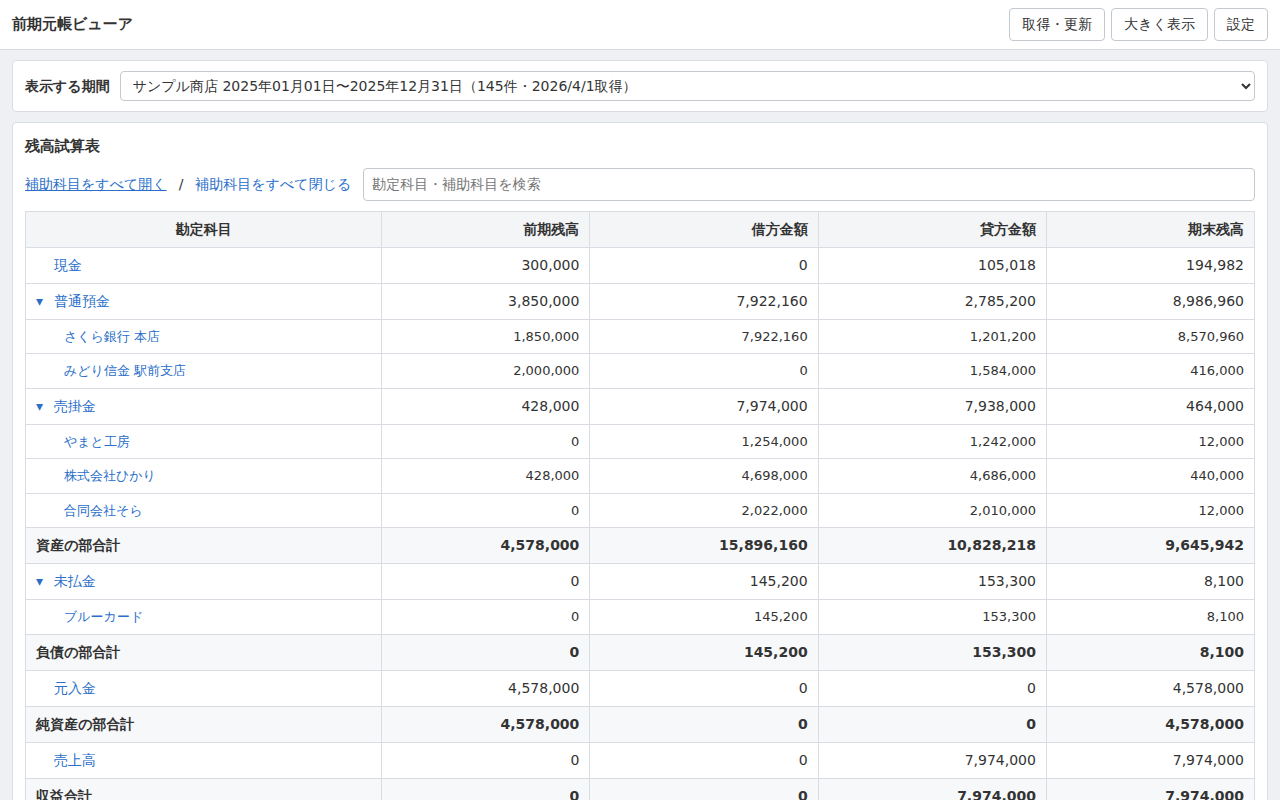
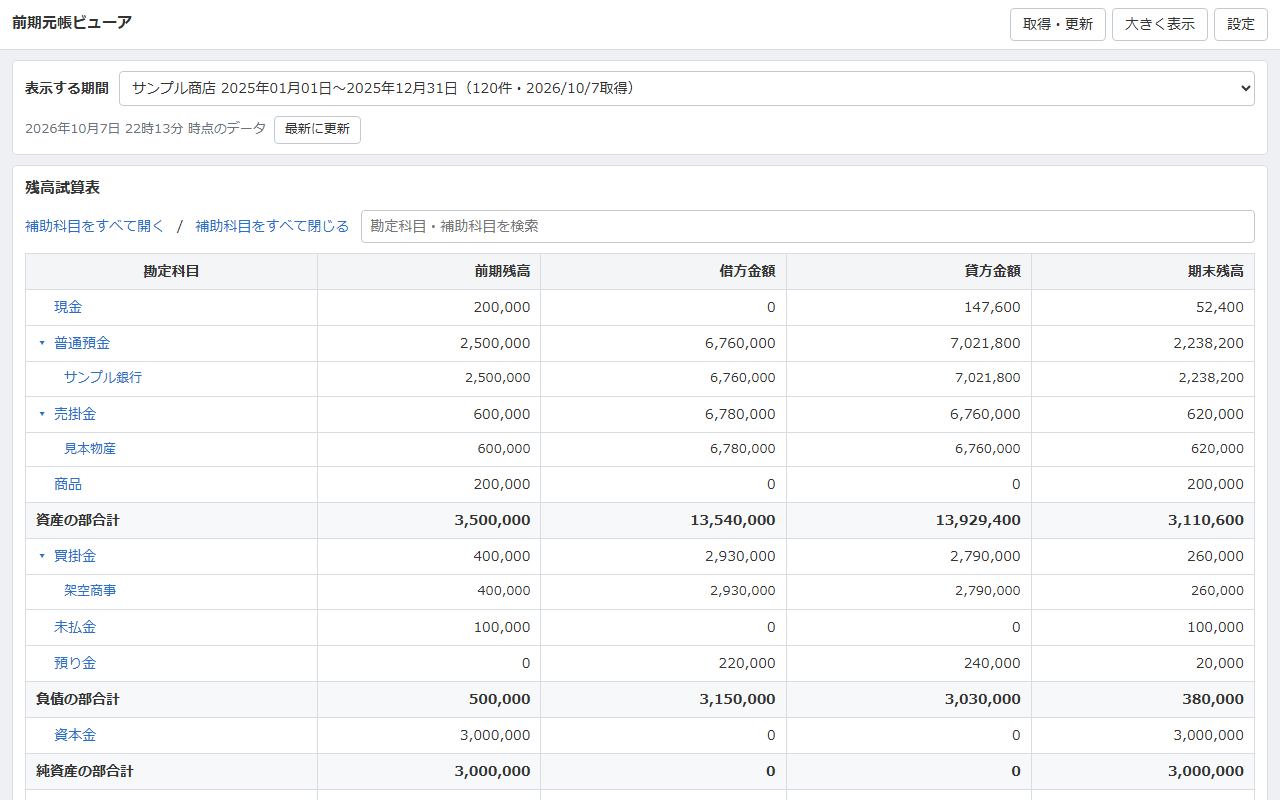
プライバシーポリシーの取り扱う情報を画面の表示に合わせ、画面の画像を更新

diff --git a/privacy-policy.html b/privacy-policy.html
@@ -34,7 +34,7 @@
 <p>本拡張機能は、利用者が操作したときに限り、次の情報を取り扱います。</p>
 <div class="tablewrap"><table>
 <tr><th>情報</th><th>取得元</th><th>目的</th></tr>
-<tr><td>会計データ（仕訳〔取引先名・摘要・メモを含む〕、勘定科目、事業者名、会計期間と経理方式の設定）</td><td>マネーフォワード クラウド会計の公開API</td><td>残高試算表・総勘定元帳・補助元帳を画面に表示するため</td></tr>
+<tr><td>会計データ（仕訳〔取引先名・摘要・メモを含む〕、勘定科目、事業者名・事業者番号、会計期間、消費税の設定〔課税方式・経理方式〕）</td><td>マネーフォワード クラウド会計の公開API</td><td>残高試算表・総勘定元帳・補助元帳を画面に表示するため</td></tr>
 <tr><td>認証情報（クライアントID、クライアントシークレット、アクセストークン、リフレッシュトークン）</td><td>利用者の入力、およびマネーフォワードの認可サーバー</td><td>マネーフォワード クラウド会計のAPIに接続するため</td></tr>
 <tr><td>仕訳帳CSVファイルの内容</td><td>利用者が選んだファイル</td><td>上と同じく、元帳を画面に表示するため</td></tr>
 <tr><td>同意の記録（同意した日時）</td><td>本拡張機能の画面での操作</td><td>同意が済んでいるかどうかを覚えておくため</td></tr>
@@ -95,7 +95,7 @@
 <p>The Extension handles the following information only when the user operates it.</p>
 <div class="tablewrap"><table>
 <tr><th>Information</th><th>Source</th><th>Purpose</th></tr>
-<tr><td>Accounting data (journal entries, including trade partner names, descriptions and memos; accounts; office name; fiscal period and tax accounting settings)</td><td>The public API of Money Forward Cloud Accounting</td><td>To display the trial balance, general ledger and subsidiary ledger on the user's screen</td></tr>
+<tr><td>Accounting data (journal entries, including trade partner names, descriptions and memos; accounts; office name and office number; fiscal periods; consumption tax settings)</td><td>The public API of Money Forward Cloud Accounting</td><td>To display the trial balance, general ledger and subsidiary ledger on the user's screen</td></tr>
 <tr><td>Authentication information (client ID, client secret, access token, refresh token)</td><td>Entered by the user, and issued by Money Forward's authorization server</td><td>To connect to the Money Forward Cloud Accounting API</td></tr>
 <tr><td>Contents of a journal CSV file</td><td>A file the user selects</td><td>To display ledgers, as above</td></tr>
 <tr><td>Consent record (date and time of consent)</td><td>The user's action in the Extension</td><td>To remember that consent has been given</td></tr>
